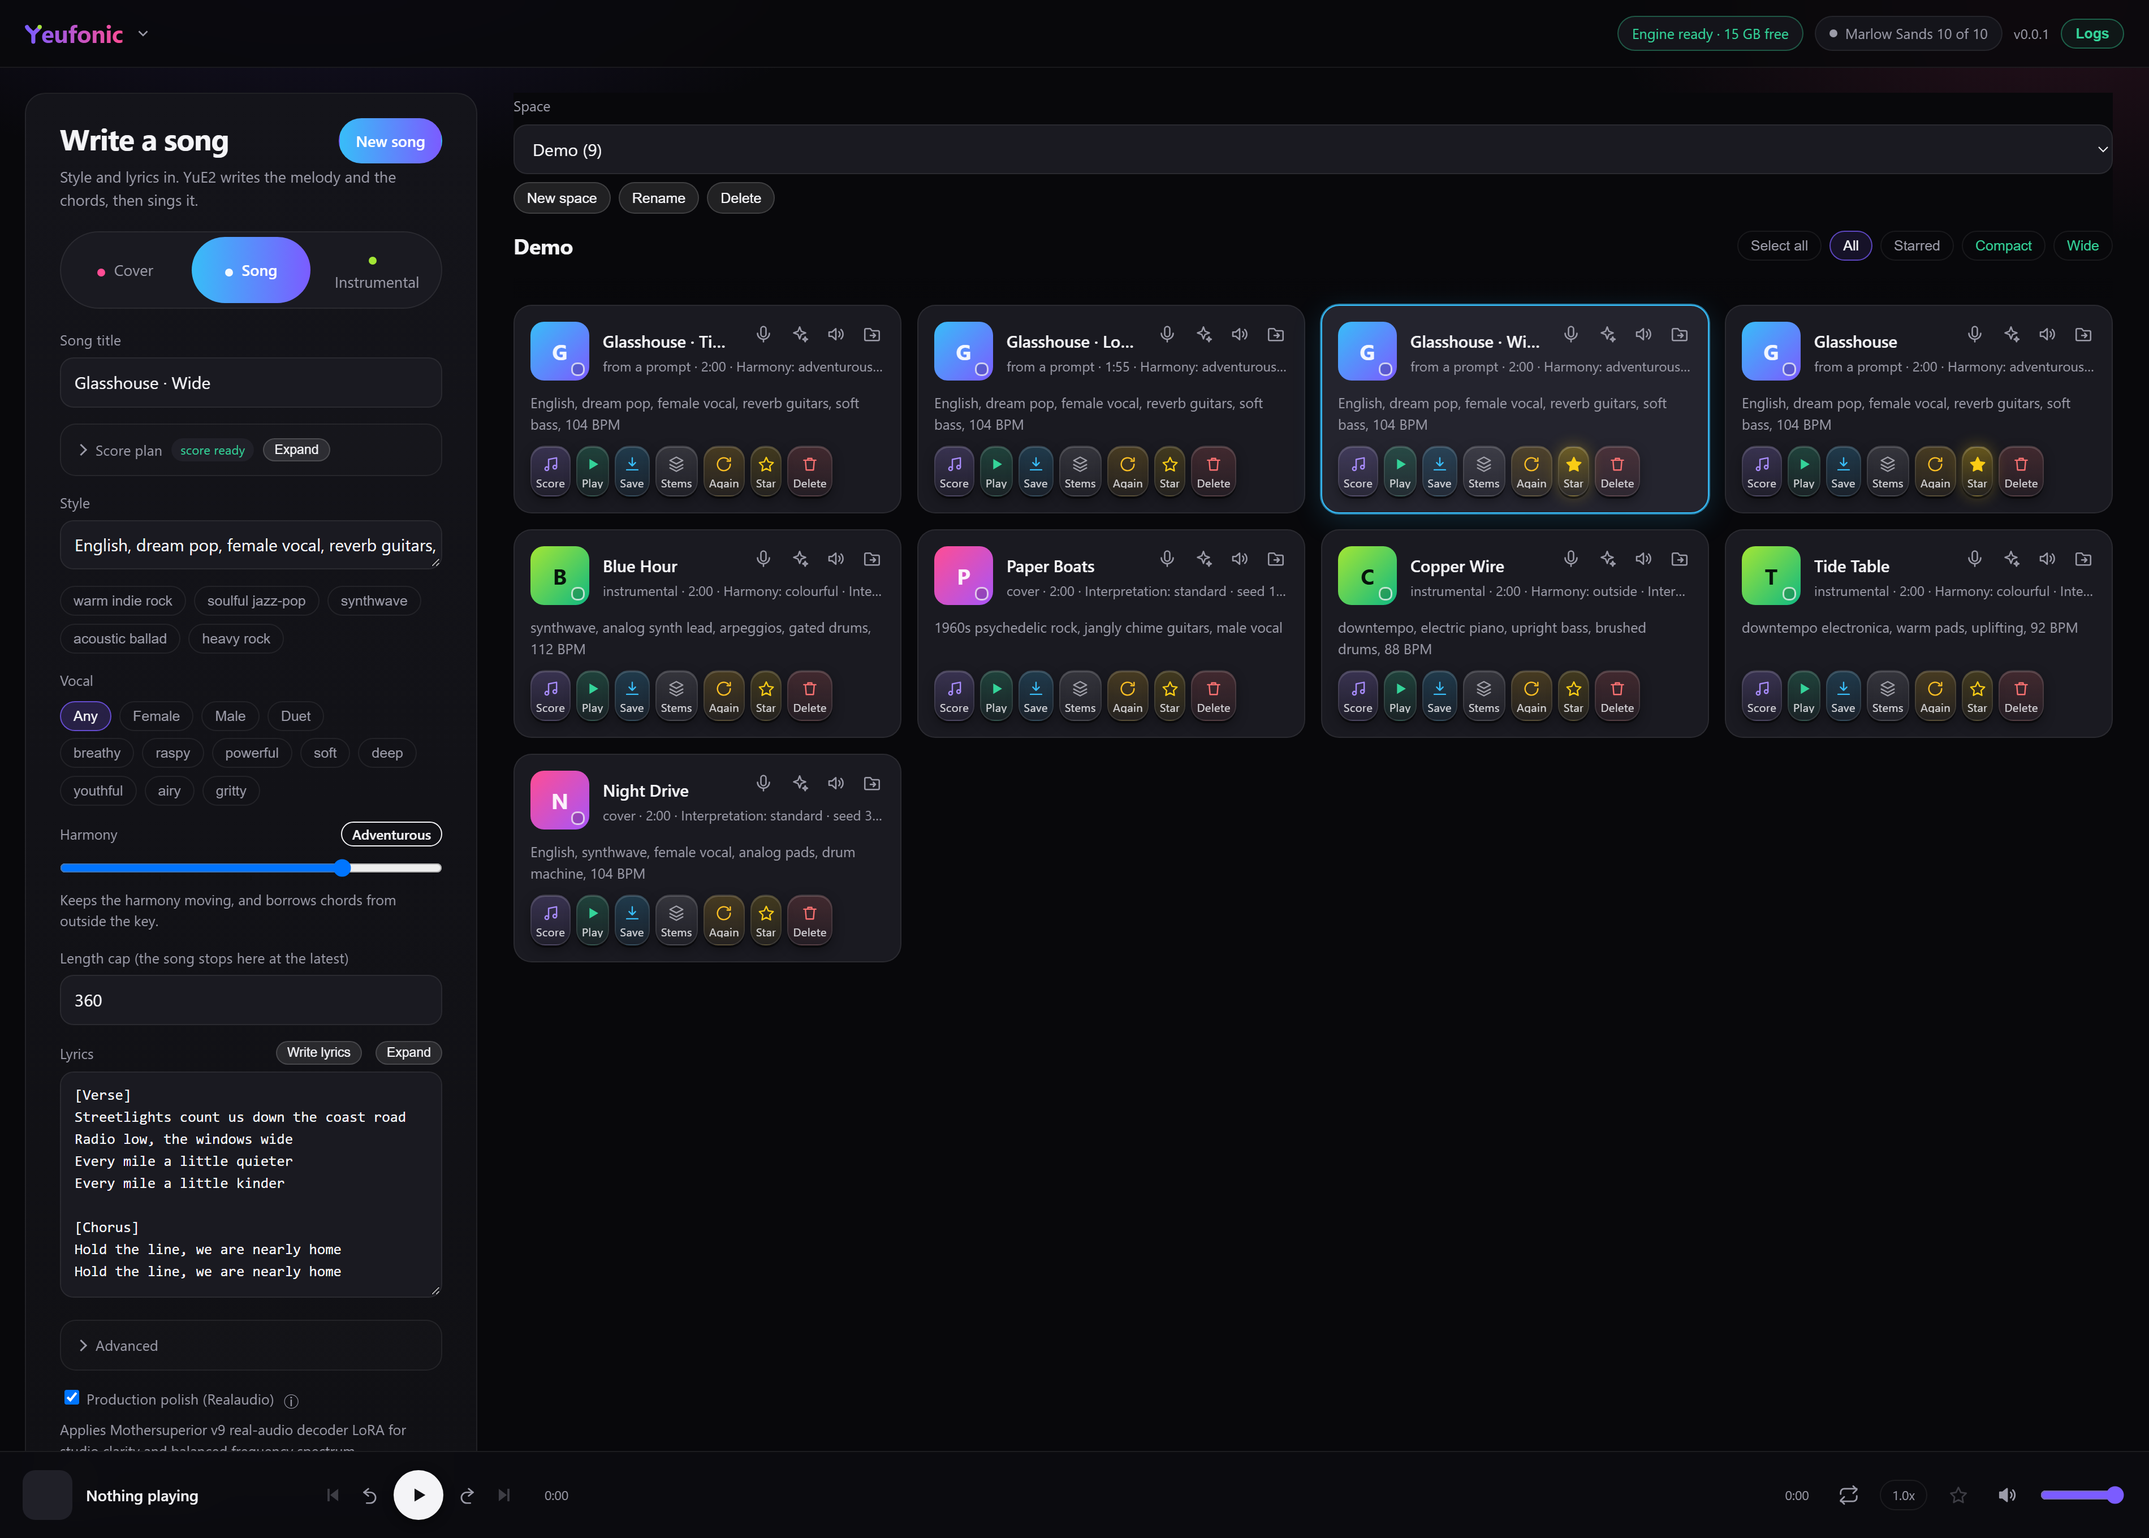
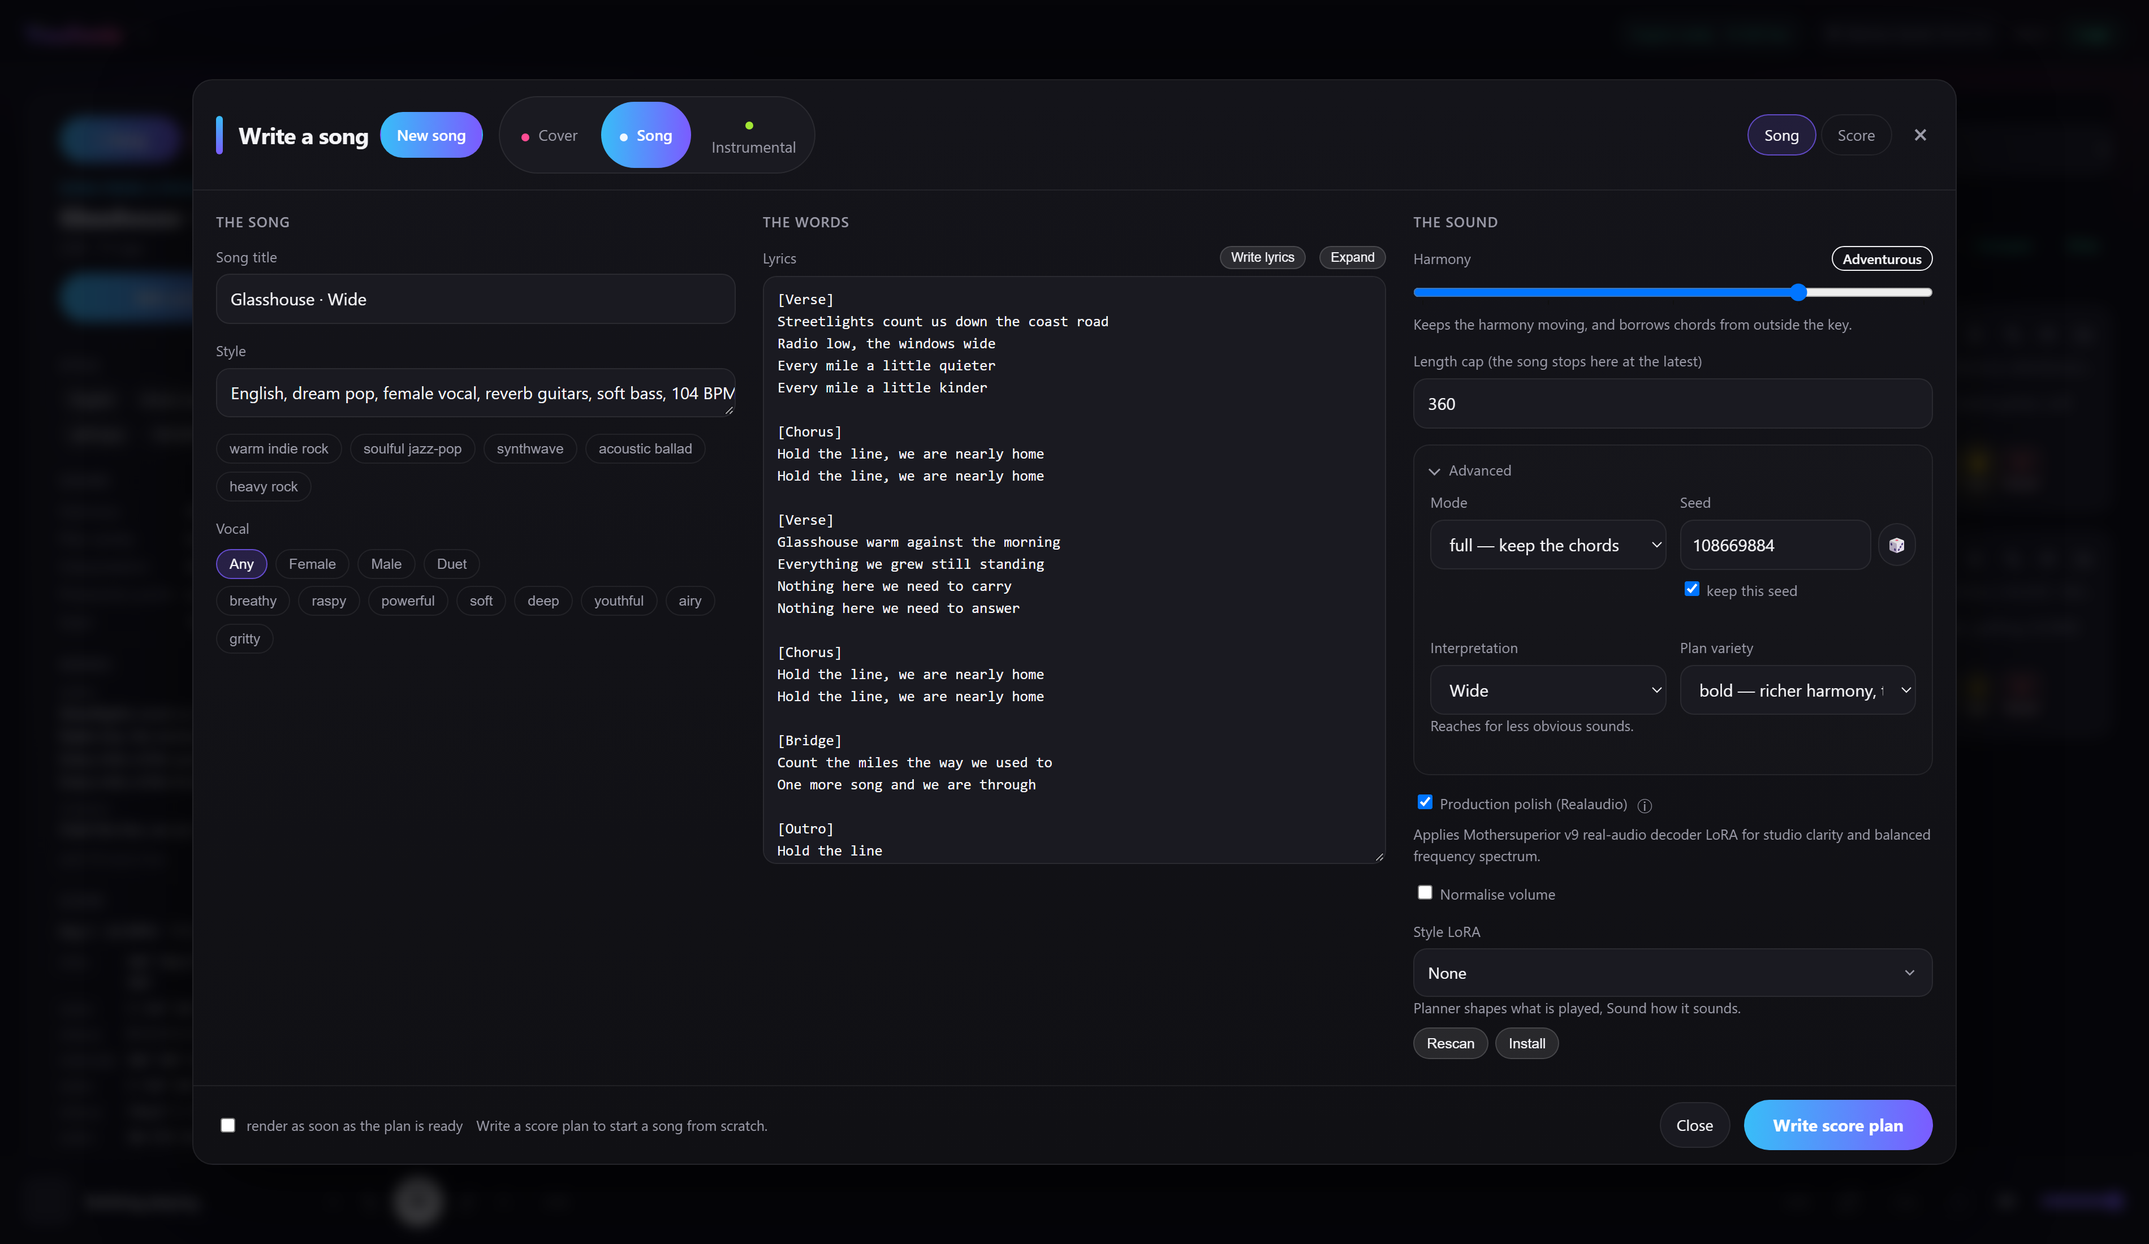
Docs: the take panel and the editor window
The README, the guide and the changelog describe the left panel as a
read-only take sheet and the editor window where takes are made, with its
two layouts, the new buttons, double-clicking a card and folding the
panel. The screenshots are retaken to show them. The screenshot page now
loads the app only after choosing its space, which it did before only by
luck of a remembered one, and sets its scenes up through the editor.

diff --git a/tools/readme-shots.html b/tools/readme-shots.html
@@ -7,9 +7,11 @@
          --window-size=1900,1500 --virtual-time-budget=9000 \
          --screenshot=cover.png http://<app>/static/readme-shots.html#cover
 
-     Scenes: cover, comfy (Wide + Comfy), song, instrumental, lora, corpora, corpus. -->
+     Scenes: cover (the editor's Score page), comfy (Wide + Comfy, the take panel), song (the
+     editor), instrumental, lora (the editor as steps: set Editor layout to steps first), corpora,
+     corpus. -->
 <html><body style="margin:0;background:#08080b">
-<iframe id="f" src="/" style="width:100vw;height:100vh;border:0;display:block"></iframe>
+<iframe id="f" style="width:100vw;height:100vh;border:0;display:block"></iframe>
 <script>
 var scene = location.hash.slice(1);
 var f = document.getElementById('f');
@@ -18,6 +20,7 @@ try {   // the app reads these on load: every scene starts from the same place
   localStorage.setItem('yue2.layout', scene === 'comfy' ? 'comfy' : 'compact');
   localStorage.setItem('yue2.width', 'wide');
   localStorage.setItem('yue2.filter', 'all');
+  localStorage.setItem('yue2.sheet', 'open');
 } catch (e) {}
 f.onload = function () {
   var w = f.contentWindow, d = w.document;
@@ -26,32 +29,36 @@ f.onload = function () {
   d.head.appendChild(calm);
   function take(id) { return w.State.takes.filter(function (t) { return t.id === id; })[0]; }
   function when(test, then, n) { n = n || 0; if (test() || n > 80) { then(); } else { setTimeout(function () { when(test, then, n + 1); }, 100); } }
-  when(function () { return w.State && w.State.takes && w.State.takes.length; }, function () {
-    function closed() { setTimeout(function () { d.getElementById('score-box').open = false; }, 300); }
+  when(function () { return w.State && w.State.takes && w.State.takes.length && w.State.settings && w.State.settings['editor.layout']; }, function () {
+    // Every scene but Corpora shows the take panel, beside the editor window or on its own.
     if (scene === 'cover') {
-      w.setMode('cover'); w.selectTake(take('paperboats00'));
-      setTimeout(function () { d.getElementById('score-box').open = true;
-        var chart = d.getElementById('chord-chart'); if (chart && chart.textContent !== 'Hide chart') { chart.click(); } }, 400);
+      w.selectTake(take('paperboats00')); w.openEditor('score');
+      setTimeout(function () { var chart = d.getElementById('chord-chart'); if (chart && chart.textContent !== 'Hide chart') { chart.click(); } }, 400);
     } else if (scene === 'comfy') {
-      w.setMode('song'); w.selectTake(take('glasshouse00')); closed();
+      w.selectTake(take('glasshouse00'));
     } else if (scene === 'song') {
-      w.setMode('song'); w.selectTake(take('glasshousewi')); closed();
+      w.selectTake(take('glasshousewi')); w.openEditor('song');
     } else if (scene === 'instrumental') {
       // A new one being set up, so the section builder shows rather than a plan.
-      w.setMode('inst'); w.confirm = function () { return true; }; d.getElementById('start-fresh').click(); closed();
+      w.confirm = function () { return true; };
+      w.selectTake(take('glasshouse00'));
+      w.newTake('inst');
       setTimeout(function () {
         d.getElementById('title').value = 'Copper Wire';
         d.getElementById('style').value = 'downtempo, electric piano, upright bass, brushed drums, 88 BPM';
         var harmony = d.getElementById('harmony'); harmony.value = 2; harmony.dispatchEvent(new w.Event('input', { bubbles: true }));
-        w.STRUCTURE.kind = 'sections'; w.paintStructure();
+        w.STRUCTURE.kind = 'sections'; w.paintStructure(); w.paintEditor();
       }, 400);
     } else if (scene === 'lora') {
-      w.setMode('song'); w.selectTake(take('glasshouse00')); closed();
-      setTimeout(function () { var lora = d.getElementById('style-lora-field'); if (lora) { lora.scrollIntoView({ block: 'center' }); } }, 400);
+      // The Sound step of the steps layout, where the Style LoRA is. The layout is a
+      // setting: set it to steps in the demo app before this scene, and back after.
+      w.selectTake(take('glasshouse00')); w.openEditor('sound');
     } else if (scene === 'corpora' || scene === 'corpus') {
       w.State.options.training_available = true;   // the trainer is in the engine; say so without waiting on it
       w.openIdentities(); if (scene === 'corpus') { w.showIdentity('glassorchard'); }
     }
   });
 };
+// Only now: the app reads the choices above as it loads, so it must not start before them.
+f.src = '/';
 </script></body></html>

diff --git a/app/static/guide.md b/app/static/guide.md
@@ -12,17 +12,34 @@ thrown away; a render costs minutes. So the app lets you look at the plan first.
 
 ## Your first song
 
-1. **Type a style.** A sentence, not a tag list: *"warm indie rock, expressive female lead, jangly
+1. Press **+ Song** at the top of the left panel. The editor window opens.
+2. **Type a style.** A sentence, not a tag list: *"warm indie rock, expressive female lead, jangly
    guitars, 96 BPM"*. This is the single biggest influence on what comes out.
-2. **Add lyrics**, or press **Write lyrics** and let Gemma draft them from a description.
-3. Press **Write score plan**. Nothing is rendered yet.
-4. **Read the plan** when it lands. If the melody is wrong, **Write a new plan** rerolls it for the
+3. **Add lyrics**, or press **Write lyrics** and let Gemma draft them from a description.
+4. Press **Write score plan**. Nothing is rendered yet: the window turns to its **Score** page.
+5. **Read the plan** when it lands. If the melody is wrong, **Write a new plan** rerolls it for the
    cost of a few seconds.
-5. Press **Render this score**.
+6. Press **Render this score**. The window closes.
 
 Tick *render as soon as the plan is ready* to run both steps without stopping in between.
 
 The take appears in the library on the right, and plays in the bar at the bottom.
+
+### The take panel and the editor
+
+The **left panel** shows the take you last clicked, read-only: its style, its sound settings, the
+first lines of its words, and its score as a key, a tempo, a length and each section's chords.
+**+ Song**, **+ Cover** and **+ Instrumental** at the top start something new; the one for the
+take's own kind stands out. The chevron beside the panel folds it away, so the takes have the width,
+and brings it back.
+
+Making and changing a take happens in the **editor window**. Its main button on the panel says what
+fits: *Edit and render again*, or *Review the plan and render* when a plan is waiting. A card's
+**Score** and **Again** buttons open it too, and so does double-clicking a card. It has three
+columns (the song, the words and the sound) with the score on a tab of its own. **Settings → Editor
+layout** offers steps instead, one part at a time, with a summary of what will be sent at the end.
+
+Closing the window, with **Close**, the cross or Escape, keeps what you typed.
 
 ### What to put in the Style box
 
@@ -166,14 +183,15 @@ The score fixes the notes. The **interpretation** sets how they are performed.
 The sparkle button on a card renders **the same score and the same seed** in the other
 interpretations. Because only the interpretation changes, what you hear between them is the
 interpretation — not a different roll of the dice. Each lands as its own take, titled
-*Night drive · Loose*. The window has its own length cap, which starts at the panel's and applies
+*Night drive · Loose*. The window has its own length cap, which starts at the editor's and applies
 only to these takes.
 
 ### Seed, and reproducing a take
 
-Every take records its seed and every setting that shaped it. The card names them, and clicking a
-card loads all of it back into the form. **Again** re-renders from exactly that, so a take you liked
-can be reproduced, and a take you nearly liked can be nudged one setting at a time.
+Every take records its seed and every setting that shaped it. The card names them, clicking a card
+shows them in the take panel, and opening it in the editor loads all of it back. **Again** opens the
+editor with exactly that, seed included, so a take you liked can be reproduced, and a take you nearly
+liked can be nudged one setting at a time.
 
 Tick **fixed seed** to keep the same seed across renders; leave it off and each render rolls a new
 one.
@@ -387,9 +405,9 @@ that point in training. They sound about as good as each other, but each has its
 what it learned, so each has its own taste while keeping the style and signature sound the LoRA
 was trained on.
 
-To hear them side by side, choose the LoRA, set up the panel as you would for one take, and press
+To hear them side by side, choose the LoRA, set up the editor as you would for one take, and press
 **Checkpoints** beside **Delete LoRA**. It is greyed out for a LoRA without checkpoints. Tick the
-steps you want, set a length cap for these takes if you like, and press **Render**. The panel's
+steps you want, set a length cap for these takes if you like, and press **Render**. The editor's
 own action runs once on each checkpoint, all with one seed, and each take is named after its step:
 *Night drive · step 250*, *Night drive · full*. A song or an instrumental writes its plan and goes
 straight on to render.
@@ -435,10 +453,10 @@ the engine is working on. Deleting a take stops its job and removes its stems. *
 recording removes the file and its stems; covers made from it keep their audio and score, but cannot
 be rendered again.
 
-**New song** — or **New cover** — beside the heading starts again from the take on show. It clears
-the title, the lyrics and the score, and **keeps your settings**: style, vocal, Harmony, plan
-variety, length cap, interpretation, LoRA and seed. The take being shown lets go of the panel, so
-Render cannot act on it by mistake.
+**+ Song**, **+ Cover** and **+ Instrumental** on the take panel, or **New song** beside the
+editor's heading, start again from the take on show. They clear the title, the lyrics and the score,
+and **keep your settings**: style, vocal, Harmony, plan variety, length cap, interpretation, LoRA and
+seed. The take being shown lets go of the editor, so Render cannot act on it by mistake.
 
 Words you had typed but not used are not thrown away: a bar offers to restore them.
 
@@ -518,7 +536,7 @@ brings it up to the usual loudness and marks it *Normalised*. If it still sounds
 seed, and keep that LoRA's Sound at 0.5 or below. It happens most in covers through a style LoRA
 trained here.
 
-**Normalise volume.** Tick it in the form and each take made while it is ticked is brought to the
+**Normalise volume.** Tick it in the editor and each take made while it is ticked is brought to the
 usual loudness when it finishes, and marked *Normalised*. A take made without it can be normalised
 later with the speaker button at the top of its card. The file as rendered is kept beside it, and
 clicking *Normalised* goes back to it. How loud it is made is set in Settings, under *Normalise to*.

diff --git a/README.md b/README.md
@@ -16,6 +16,8 @@ a corpus of music. Edit the score either way, then pull the stems out of the res
 - **Lyrics:** draft them from a sentence, or extract them from a recording.
 - **Stems:** split any take into vocals, drums, bass and more.
 - **A library:** spaces, stars, and every take's settings kept so it can be made again.
+- **A take panel and an editor:** the left panel shows how the selected take was made, and a large
+  window, in three columns or as steps, is where takes are made and changed.
 - **Windows without Docker:** an installer that sets it all up natively, for people who would
   rather not use Docker. [It is new, and being tested](#on-windows-without-docker).
 
@@ -32,17 +34,19 @@ If you want to buy me a beer, then please use [PayPal](https://paypal.me/dynamoh
 
 ## What it looks like
 
-Covering a recording, with the score editor open:
+Covering a recording: the editor window on its Score page, with the transcribed score and its chord
+chart:
 
 [![Cover a recording](docs/screenshots/cover-a-recording.png)](https://raw.githubusercontent.com/yeufonic/yeufonic/main/docs/screenshots/full/cover-a-recording.png)
 
-The same library with **Wide** and **Comfy** on: the page fills the window, and the cards are
-wider, with room for the full title. Hover over a card's settings or prompt to read all of it.
-Compact cards are what you start with:
+The library with **Wide** and **Comfy** on, and the take panel on the left showing how the selected
+take was made. The cards are wider, with room for the full title; hover over a card's settings or
+prompt to read all of it. Compact cards are what you start with, and the chevron beside the panel
+folds it away:
 
 [![Comfy layout](docs/screenshots/comfy-layout.png)](https://raw.githubusercontent.com/yeufonic/yeufonic/main/docs/screenshots/full/comfy-layout.png)
 
-Writing a song from a prompt:
+Writing a song from a prompt, in the editor's three columns:
 
 [![Write a song](docs/screenshots/write-a-song.png)](https://raw.githubusercontent.com/yeufonic/yeufonic/main/docs/screenshots/full/write-a-song.png)
 
@@ -99,7 +103,8 @@ Writing an instrumental, with the structure built section by section:
 
 A LoRA is a small file that leans YuE2 towards a sound: a genre, a tradition, a production style.
 Put one in `models/loras/` and press **Rescan**, or use **Install**, and it appears in the **Style
-LoRA** list at the bottom of the form, in all three modes. **Download** hands one to someone else.
+LoRA** list in the editor's sound settings, in all three modes. **Download** hands one to someone
+else. Here it is in the editor's other layout, steps, on the Sound step:
 
 [![Style LoRA](docs/screenshots/style-lora.png)](https://raw.githubusercontent.com/yeufonic/yeufonic/main/docs/screenshots/full/style-lora.png)
 
@@ -357,7 +362,7 @@ LoRAs, stems, the library and what to do when something is wrong.
 
 It is also in the app itself, under the menu in the top left, or at
 <http://localhost:8090/guide> — which is where it is most useful, since trigger words and LoRA
-strengths are things you need while filling the form.
+strengths are things you need while working in the editor.
 
 How it is built — the two containers, how the app drives ComfyUI, what YuE2 does inside it, the
 LLMs and the API, with diagrams — is in **[docs/ARCHITECTURE.md](docs/ARCHITECTURE.md)**.
@@ -370,6 +375,7 @@ any browser and survive a rebuild.
 | Setting | What it does |
 |---|---|
 | Output audio format | FLAC (the default), WAV, or MP3 at 320 kbps. The format stems and a take's **Save** start with; each can choose another at the time |
+| Editor layout | Three columns with the score on a tab of its own (the default), or steps, one part at a time |
 | Normalise to | How loud a normalised take is made: −16, −14 (the default) or −11 LUFS |
 | Stem separation model | Which model a run starts with |
 | Stem save folder | Where stems are written. It must sit inside the data folder |

diff --git a/CHANGELOG.md b/CHANGELOG.md
@@ -23,6 +23,16 @@ Release notes live in two places and neither is a file in this repository: this 
 history, and each GitHub release holds its published notes. `RELEASE-NOTES-*.md` is ignored so it
 cannot creep back in.
 
+## Unreleased
+
+### Changed
+
+- **The left panel is now a read-only sheet for the selected take,** and making and changing takes
+  happens in an **editor window**: three columns with the score on a tab of its own, or steps, as
+  **Settings → Editor layout** chooses. The panel's **+ Song**, **+ Cover** and **+ Instrumental**
+  start something new; a card's Score and Again buttons, or a double-click on a card, open the
+  editor. The panel folds away, from a chevron beside it, to give the takes the width.
+
 ## 0.0.1 (2026-09-27)
 
 **Yeufonic 0.0.1: YuE2 Studio, renamed.** It carries on from YuE2 Studio 0.0.37, whose history and
